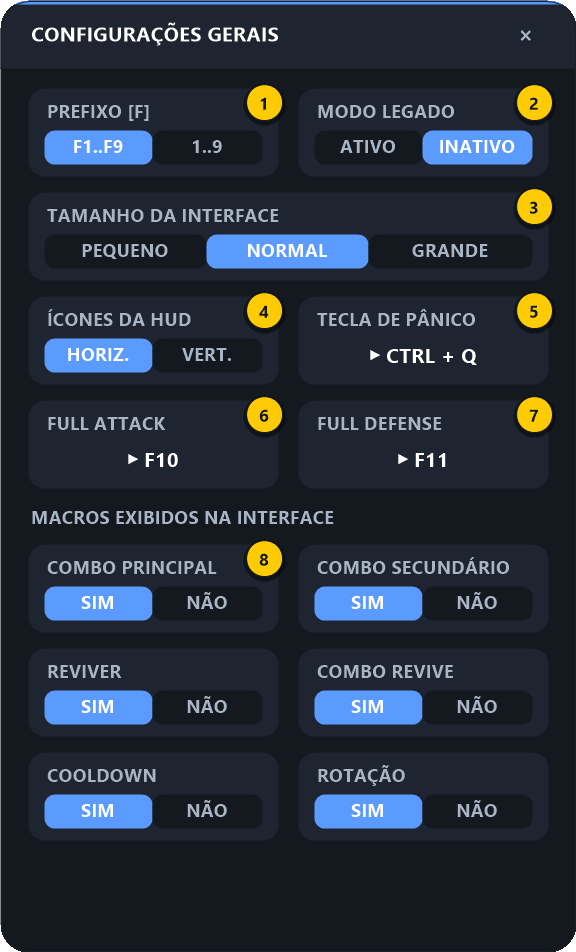
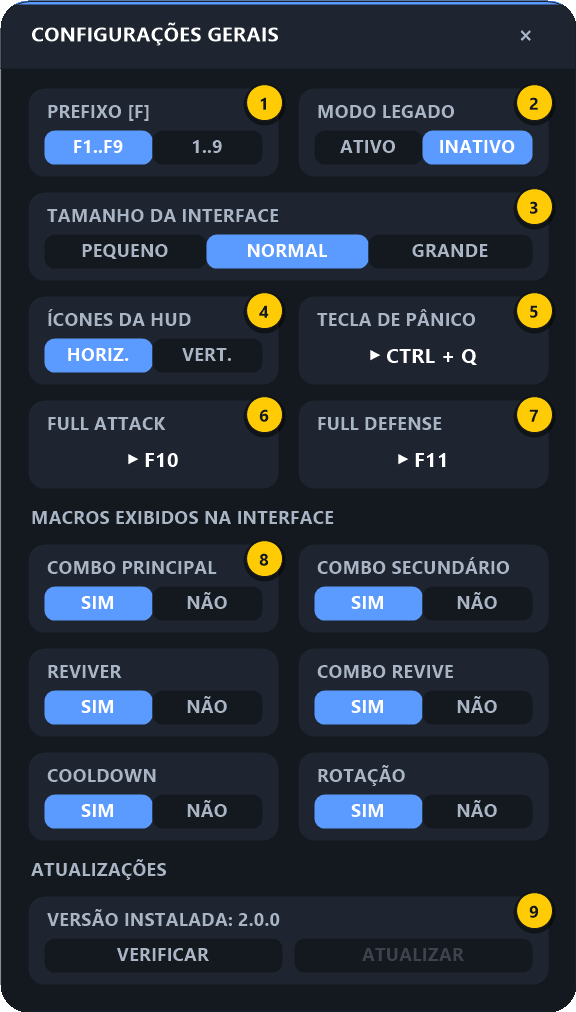
Atualizações: botão para verificar e instalar versão nova pelo GitHub
Cartão ATUALIZAÇÕES nas Configurações Gerais: VERIFICAR consulta a
última Release do repositório e compara com VERSAO_APP; ATUALIZAR só
é liberado quando há versão nova — baixa o zip, substitui os arquivos
(mantendo config.ini e revive_dedo.bmp) e reinicia o macro.

diff --git a/CLAUDE.md b/CLAUDE.md
@@ -31,6 +31,7 @@ There is no test suite. To check a change:
 - `lib/window.ahk` — window helpers shared by the HUD and config screens: `JogoAtivo()` (is the game focused), `DragJanela`, `Win_MostrarSemAtivar`, `Win_ArmarMouseLeave`, `Win_DecodeXY`, and elevation detection (`VerificarElevacaoJogo` — if the game runs as admin but the script doesn't, Windows silently blocks sent keys/hotkeys; the script detects this and offers to relaunch itself elevated).
 - `lib/input.ahk` — key/position capture used by config screens: `CapturarTecla` (single key, used for keys the macro *sends to the game*), `CapturarCombo` (key + optional Ctrl/Alt/Shift, used for hotkeys), `CapturarPosicaoMouse`. Both capture flows route through `_SalvarTeclaCapturada`, which checks `ConflitoDeTecla` before saving. `LButton`/`RButton` are always rejected as macro keys (they'd stop reaching the game).
 - `lib/deteccao.ahk` — detects whether the Pokémon is out of the pokéball by `ImageSearch`-ing the game window for the skill bar's pointing-finger icon (bar is translucent, resizable and draggable, so a fixed pixel won't work). The user captures the icon once from the Revive config screen (`CapturarIconeDedo`); dark background pixels are keyed to magenta and saved to the gitignored `revive_dedo.bmp` for `*TransFF00FF`. `EstadoPokemonFora()` returns 1/0/-1 (-1 = not calibrated → revive keeps the old always-recall behavior).
+- `lib/atualizacao.ahk` — manual self-update from GitHub Releases (repo `ATUALIZ_REPO`), driven only by the "ATUALIZAÇÕES" card on the Configurações Gerais screen: **VERIFICAR** fetches `releases/latest` (async WinHttp polled by `SetTimer`, so nothing freezes) and compares its tag with `VERSAO_APP` (`lib/globals.ahk`) via `CompararVersao`; **ATUALIZAR** is enabled only after a newer one is found — it downloads the zipball, extracts it with PowerShell `Expand-Archive` into `%TEMP%`, copies everything over `A_ScriptDir` except `_ATUALIZ_PRESERVAR` (`config.ini`, `revive_dedo.bmp`), sets `Geral/atualizadoPara` and `Reload()`s; `AvisarAtualizacaoConcluida()` shows the success hint on the next start. Refuses to install into a folder with `.git`. **Releasing**: bump `VERSAO_APP`, commit, then create a GitHub Release tagged `v<VERSAO_APP>` — without a Release, VERIFICAR finds nothing.
 - `ui/mini_menu.ahk` — the HUD, the app's main interface (`Ctrl+F12` toggles it). Floating bar of macro icons; hovering reveals a ⚙ per macro (opens that macro's config screen) plus a global ⚙ and ✕. Runs its own 60fps redraw loop during hover/animation, so it scales layout constants before drawing rather than transforming the whole `Graphics` (unlike `gdip_config.ahk`, which redraws only on interaction and can afford a transform-based scale).
 - `ui/config_*.ahk` — one file per config screen (combo, revive, combo_revive, cooldown, rotacao, geral), each built from the `_GCfg_*` widgets above.
 - `macros/hotkeys.ahk` — macro on/off state and the hotkey system. `DefinirMacro`/`AlternarMacro`/`DesligarTodosMacros` are the **only** way to change `macros[]` — they own combo-exclusivity logic and trigger the HUD redraw. `AtualizarHotkeyCombo()` re-registers all AHK hotkeys from the INI; it reuses static `HotIf` criterion objects (AHK identifies a hotkey variant by its criterion object, so recreating closures breaks `Hotkey(..., "Off")`) and must be called whenever a *key* changes — not on every toggle, since criteria re-check `macros[]` live at keypress time. `ProcessarPressionamento` is the central dispatcher for macro-execution hotkeys.

diff --git a/README.md b/README.md
@@ -33,7 +33,7 @@ Tutoriais ilustrados de como configurar e usar cada função, tela por tela:
 | 4 | [Combo Revive](docs/04-combo-revive.md) | Reviver e já soltar um combo |
 | 5 | [Cooldown](docs/05-cooldown.md) | Rotação de pokémons com `Ctrl + N` e tempos por posição |
 | 6 | [Rotação](docs/06-rotacao.md) | Uma tecla que troca de pokémon numa ordem salva (e, se quiser, solta um combo logo depois), com o próximo `Ctrl + N` na HUD |
-| 7 | [Configurações Gerais](docs/07-configuracoes-gerais.md) | Prefixo F, Modo Legado, tamanho, HUD vertical, Tecla de Pânico, Full Attack/Defense |
+| 7 | [Configurações Gerais](docs/07-configuracoes-gerais.md) | Prefixo F, Modo Legado, tamanho, HUD vertical, Tecla de Pânico, Full Attack/Defense, atualizações |
 
 <p align="center"><img src="docs/img/hud-hover.png" width="480" alt="HUD do PokéMacro"></p>
 
@@ -81,6 +81,8 @@ Tutoriais ilustrados de como configurar e usar cada função, tela por tela:
 
 > O arquivo `config.ini` é criado automaticamente na primeira vez que você salva qualquer configuração. Não é necessário criá-lo manualmente.
 
+**Para atualizar** depois de instalado, não precisa baixar tudo de novo: em [Configurações Gerais](#configurações-gerais), clique em **VERIFICAR** e, se houver versão nova, em **ATUALIZAR**. Suas configurações são mantidas.
+
 ---
 
 ## Estrutura de Pastas
@@ -105,7 +107,8 @@ macro_modular/
 │   ├── gdip.ahk                 ← Wrapper GDI+ usado para desenhar a HUD
 │   ├── hint.ahk                 ← Notificações flutuantes na tela
 │   ├── window.ahk               ← Helpers de janela, detecção do jogo e checagem de admin
-│   └── input.ahk                ← Captura de teclas e posição do mouse
+│   ├── input.ahk                ← Captura de teclas e posição do mouse
+│   └── atualizacao.ahk          ← Verificar/instalar versão nova pelo GitHub
 │
 ├── ui\                          ← Telas da interface gráfica
 │   ├── mini_menu.ahk            ← HUD flutuante — interface principal (Ctrl+F12)
@@ -410,6 +413,17 @@ Define a tecla enviada **após** o término de qualquer combo ou ao iniciar o Co
 ### 5. Tecla de Pânico
 
 Uma tecla que **desliga todos os macros de uma vez** e interrompe o que estiver rodando (combo, cooldown). Só funciona com o jogo em foco.
+
+---
+
+### 6. Atualizações
+
+Cartão no fim da tela, com a versão instalada e dois botões:
+
+- **VERIFICAR** — consulta a última versão publicada no GitHub. Só acontece quando você clica.
+- **ATUALIZAR** — fica apagado até a verificação achar uma versão nova. Ao clicar, baixa a versão, substitui os arquivos e reinicia o macro sozinho. Seu `config.ini` e o `revive_dedo.bmp` são mantidos.
+
+Detalhes e mensagens de erro: [guia de Configurações Gerais](docs/07-configuracoes-gerais.md#passo-8--atualizações).
 
 ---
 

diff --git a/docs/07-configuracoes-gerais.md b/docs/07-configuracoes-gerais.md
@@ -18,6 +18,8 @@ Opções **globais**, que valem para todos os macros. Para abrir: passe o mouse 
 | **6** | Full Attack | Tecla de Full Attack usada pelos combos |
 | **7** | Full Defense | Tecla de Full Defense usada pelos combos e pelo Cooldown |
 | **8** | Macros exibidos na interface | Mostra/esconde cada ícone da HUD |
+| **9** | Atualizações | Mostra a versão instalada; **VERIFICAR** procura uma versão nova |
+| **10** | Atualizar | Só fica clicável quando há versão nova — baixa, instala e reinicia |
 
 ---
 
@@ -76,6 +78,28 @@ Essas teclas são **definidas uma vez aqui** e cada macro decide se usa ou não:
 ### Passo 7 — Macros exibidos na interface
 
 Um cartão `SIM | NÃO` para cada macro. Com `NÃO`, o ícone some da HUD — útil para esconder macros que você não usa. É a mesma opção **Exibir no Mini Menu** que existe em cada tela de macro.
+
+### Passo 8 — Atualizações
+
+Não precisa mais baixar a pasta inteira do GitHub a cada versão nova:
+
+1. Clique em **VERIFICAR** (9). O macro consulta o GitHub (leva um segundo ou dois) e a linha de cima do cartão mostra o resultado:
+   - *"VERSÃO 2.0.0 · JÁ É A MAIS RECENTE"* — está tudo em dia;
+   - *"NOVA VERSÃO 2.1.0 DISPONÍVEL!"* — o botão **ATUALIZAR** acende.
+2. Clique em **ATUALIZAR** (10). O macro baixa a versão nova, troca os arquivos e **reinicia sozinho**. Ao voltar, aparece o aviso *"Atualizado para a versão 2.1.0"*.
+
+<p align="center"><img src="img/config-geral-atualizacao.png" width="340" alt="Cartão de atualizações com versão nova encontrada e o botão ATUALIZAR liberado"></p>
+
+O que é mantido na atualização: suas **configurações** (`config.ini`) e o **ícone do dedo** capturado para o Revive (`revive_dedo.bmp`). Nada é verificado nem baixado sem você clicar.
+
+Se algo der errado, a mensagem aparece em vermelho no cartão:
+
+| Mensagem | O que fazer |
+|----------|-------------|
+| SEM CONEXÃO COM O GITHUB / O GITHUB DEMOROU DEMAIS | Confira a internet e clique em **VERIFICAR** de novo |
+| GITHUB OCUPADO — TENTE DAQUI A POUCO | O GitHub limita consultas seguidas; espere alguns minutos |
+| SEM PERMISSÃO PARA GRAVAR NA PASTA | A pasta do macro está protegida (ex.: dentro de `Arquivos de Programas`). Mova-a para `Documentos` ou rode o macro como administrador |
+| PASTA DO GIT — USE GIT PULL | A pasta é um clone do repositório; atualize com `git pull` |
 
 ---
 
